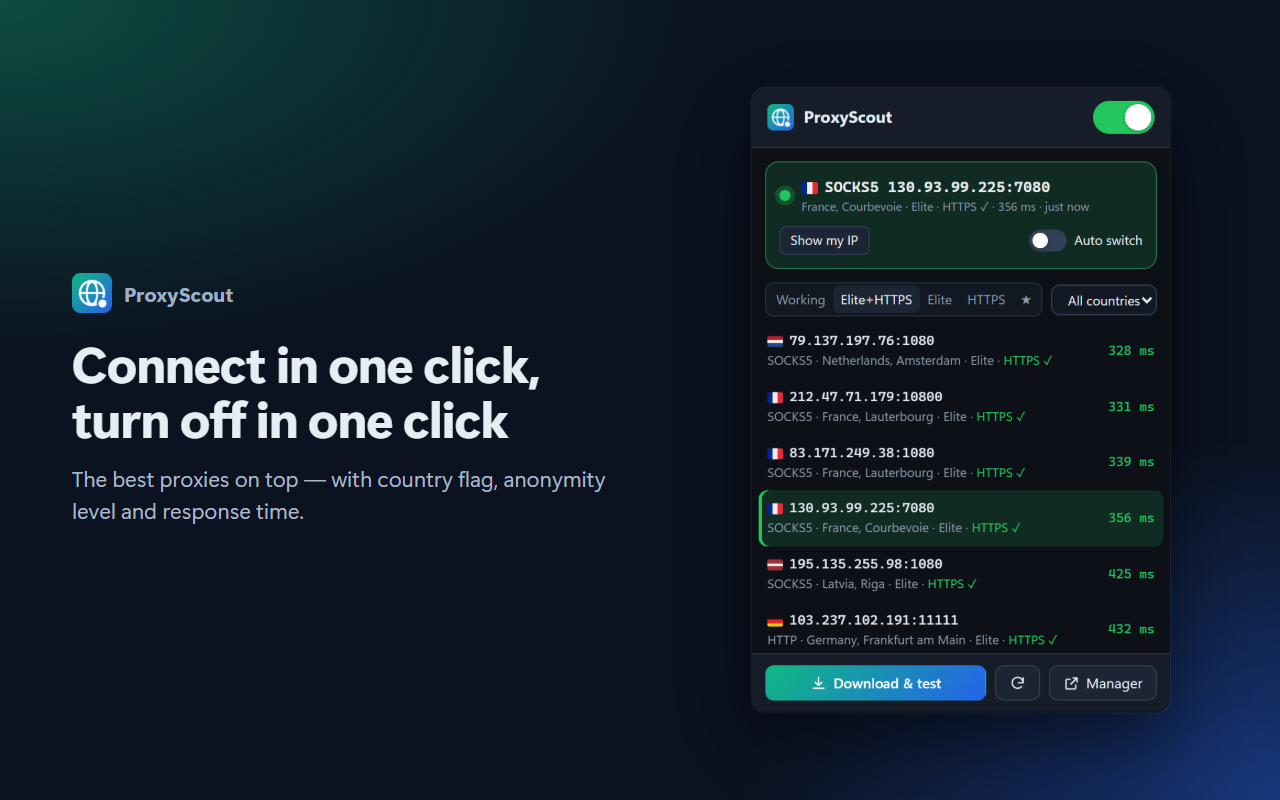
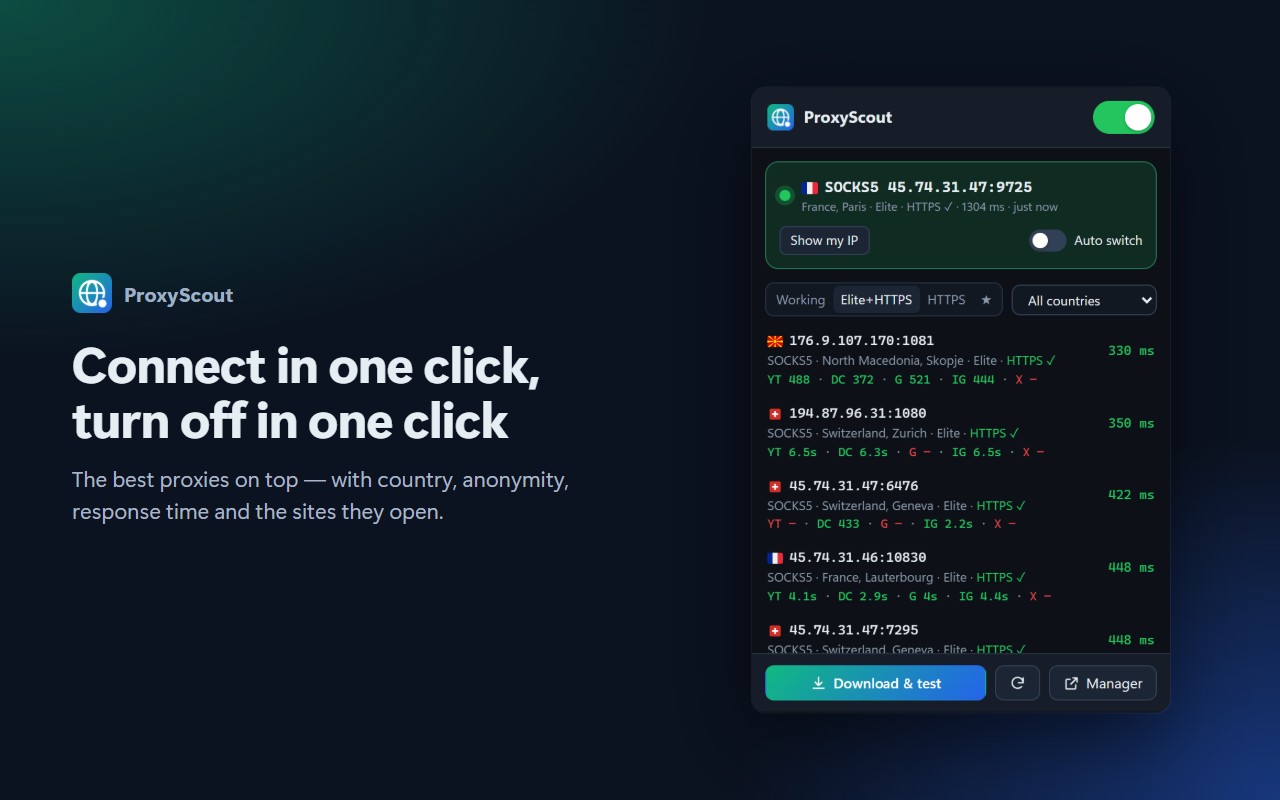
Refresh store screenshots and listing text for the current version
The screenshots showed groups and tabs that no longer exist. The third image
now shows the site test; Opera 800x500 copies are generated by the same script.
README points to the new image.

diff --git a/store/LISTING.md b/store/LISTING.md
@@ -39,13 +39,17 @@ ProxyScout, onlarca kaynaktan ücretsiz proxy listelerini indirir, her birini ge
 
 ■ GERÇEKTEN ÇALIŞANLARI AYIKLAR
 • 21 hazır kaynak (ProxyScrape, free-proxy-list.net, Spys.me, monosans, TheSpeedX…) — her kaynakta HTTP / SOCKS4 / SOCKS5 türlerini ayrı ayrı seçin, kendi liste adreslerinizi ekleyin.
-• Her proxy önce HTTP, sonra iki ayrı HTTPS bağlantısıyla test edilir. Yalnızca küçük bir test sayfasını açabilen ama gerçek siteleri açamayan proxy'ler elenir.
+• Her proxy önce HTTP, sonra iki ayrı HTTPS bağlantısı ve bir sayfa yükü testiyle denenir. Küçük bir test sayfasını açıp gerçek siteleri açamayan proxy'ler elenir; yalnızca HTTPS sitelerde çalışanlar "çalışan" sayılır.
 • Yüzlerce proxy aynı anda test edilir; bağlanırken seçtiğiniz proxy yeniden doğrulanır.
 
-■ GİZLİLİK DÜZEYİNE GÖRE KATEGORİLER
-• Elit + HTTPS · Elit · HTTPS (elit değil) · Anonim · Şeffaf — her proxy tek bir grupta.
-• Elit: ne IP'niz ne de proxy kullandığınız anlaşılır. Şeffaf: gerçek IP'nizi sızdırır (uyarıyla gösterilir).
-• Ölüler ve kalıcı ölüler ayrı listede; tek tıkla temizleyin.
+■ AÇIK GRUPLAR
+• Elit + HTTPS · HTTPS (elit değil) · HTTPS test edilmedi — her çalışan proxy tek bir grupta.
+• Elit: ne IP'niz ne de proxy kullandığınız anlaşılır. Şeffaf proxy'ler gerçek IP'nizi sızdırır (uyarıyla gösterilir).
+• HTTPS siteleri açamayanlar ayrı bir "Yalnız HTTP" grubunda, ölüler ayrı listede; tek tıkla temizleyin.
+
+■ SİTE TESTİ
+• YouTube, Discord, Google, Instagram, X gibi seçtiğiniz siteler en iyi çalışan proxy'lerle denenir; her proxy için hangi sitenin açıldığı ve yanıt süresi listede görünür.
+• Hazır siteleri açıp kapatın ya da kendi sitenizi ekleyin; "YouTube açılanlar" filtresiyle yalnızca o siteyi açan proxy'leri görün.
 
 ■ TEK TIKLA BAĞLAN
 • Popup'tan ya da yönetici sayfasında çift tıklayarak bağlanın; tek anahtarla açıp kapatın.
@@ -55,7 +59,7 @@ ProxyScout, onlarca kaynaktan ücretsiz proxy listelerini indirir, her birini ge
 
 ■ ÜLKE, ŞEHİR VE BAYRAK
 • Her proxy'nin ülkesi indirildiği anda bayrağıyla görünür (çevrimdışı veritabanı); çalışanların şehri ve servis sağlayıcısı da gösterilir.
-• Ülkeye, türe ve gizlilik düzeyine göre filtreleyin; yanıt süresine göre sıralayın.
+• Ülkeye, türe ve açtığı siteye göre filtreleyin; yanıt süresine göre sıralayın.
 
 ■ TÜM TARAYICILARINIZDA AYNI LİSTE
 • Chrome senkronu: kurulum gerektirmez.
@@ -84,13 +88,17 @@ ProxyScout downloads free proxy lists from dozens of sources, really tests every
 
 ■ KEEPS ONLY THE PROXIES THAT REALLY WORK
 • 21 built-in sources (ProxyScrape, free-proxy-list.net, Spys.me, monosans, TheSpeedX…) — pick HTTP / SOCKS4 / SOCKS5 per source and add your own list URLs.
-• Every proxy is tested over HTTP, then with two separate HTTPS connections. Proxies that can load a tiny test page but fail on real websites are filtered out.
+• Every proxy is tested over HTTP, then with two separate HTTPS connections and a page-load test. Proxies that can load a tiny test page but fail on real websites are filtered out; only proxies that work on HTTPS sites count as working.
 • Hundreds of proxies are tested in parallel; the proxy you pick is verified again when you connect.
 
-■ SORTED BY ANONYMITY LEVEL
-• Elite + HTTPS · Elite · HTTPS (not elite) · Anonymous · Transparent — each proxy in exactly one group.
-• Elite: neither your IP nor the fact that you use a proxy is revealed. Transparent: leaks your real IP (clearly marked).
-• Dead and permanently dead proxies are kept separately; clean them up in one click.
+■ CLEAR GROUPS
+• Elite + HTTPS · HTTPS (not elite) · HTTPS not tested — each working proxy in exactly one group.
+• Elite: neither your IP nor the fact that you use a proxy is revealed. Transparent proxies leak your real IP (clearly marked).
+• Proxies that cannot open HTTPS sites are listed under "HTTP only", dead ones separately; clean them up in one click.
+
+■ SITE TEST
+• The sites you pick — YouTube, Discord, Google, Instagram, X and more — are tried through the best working proxies; the list shows which sites opened through each proxy and how fast.
+• Turn built-in sites on or off or add your own; the "Opens YouTube" filter shows only the proxies that open that site.
 
 ■ ONE-CLICK CONNECT
 • Connect from the popup or by double-clicking in the manager; one switch turns it on and off.
@@ -100,7 +108,7 @@ ProxyScout downloads free proxy lists from dozens of sources, really tests every
 
 ■ COUNTRY, CITY AND FLAGS
 • Every proxy shows its country flag as soon as it is downloaded (offline database); working ones also show city and ISP.
-• Filter by country, type and anonymity; sort by response time.
+• Filter by country, type and the sites a proxy opens; sort by response time.
 
 ■ THE SAME LIST IN ALL YOUR BROWSERS
 • Chrome sync: no setup needed.
